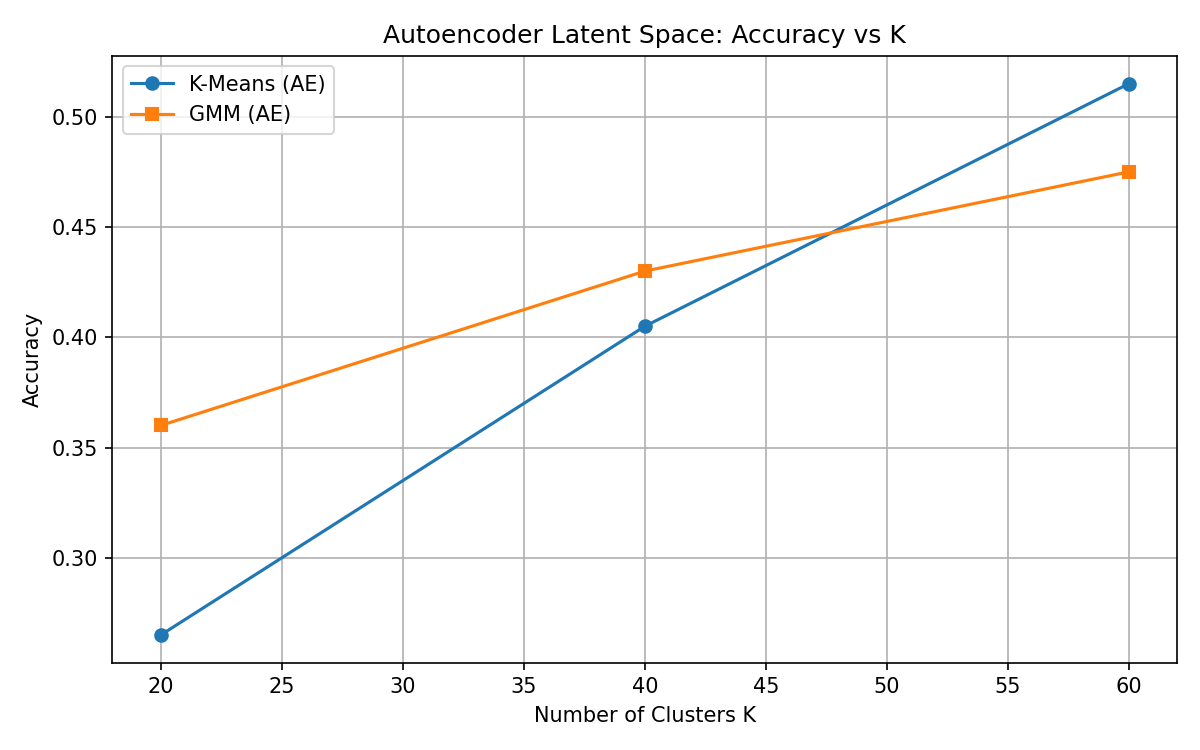
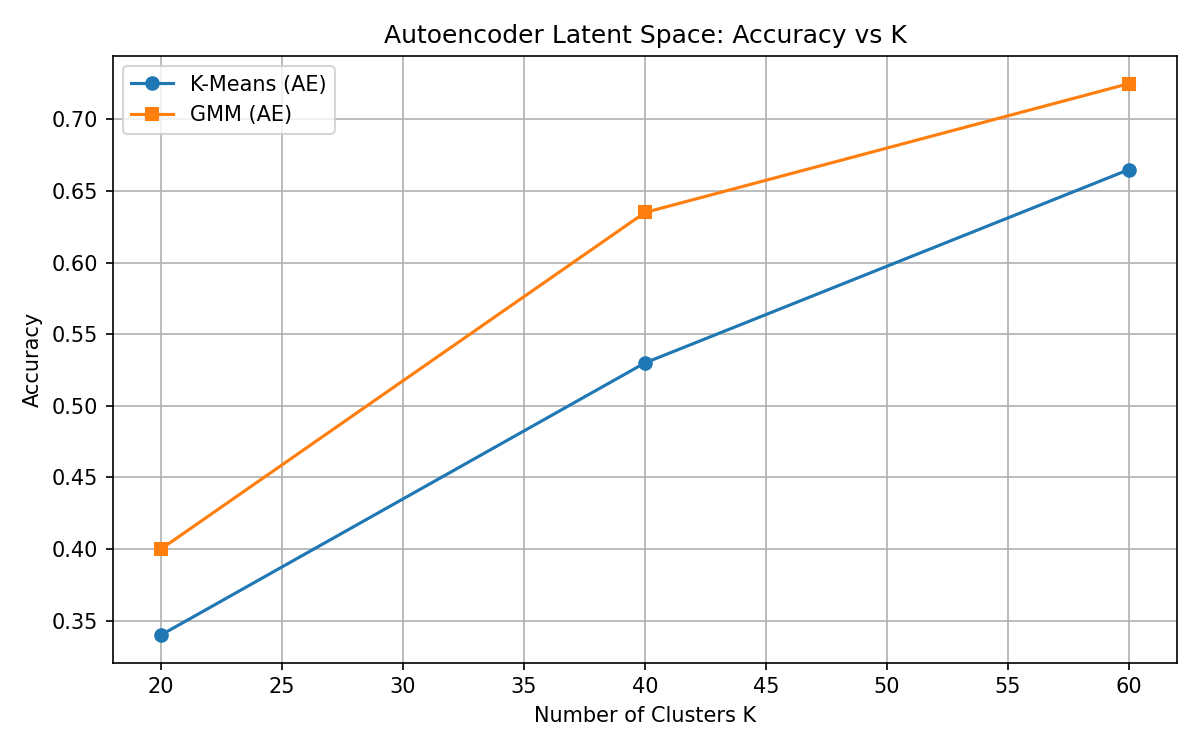
Better performance

diff --git a/Face_Recognition/Autoencoder/tester.py b/Face_Recognition/Autoencoder/tester.py
@@ -1,8 +1,9 @@
 import os
 import numpy as np
 import matplotlib
+import torch
 
-from Autoencoder.model.autoencoder import SimpleAutoencoder
+from Autoencoder.model.autoencoder import DeepAutoencoder
 from GMM.model.gmm import GMM
 from Kmeans.model.kmeans import KMeans
 
@@ -35,96 +36,100 @@ def run_experiment():
     )
     os.makedirs(OUT_DIR, exist_ok=True)
 
+    # Load data
     X_train_raw = np.load(os.path.join(DATA_DIR, "X_train.npy")).astype(np.float32)
     X_test_raw  = np.load(os.path.join(DATA_DIR, "X_test.npy")).astype(np.float32)
     y_train     = np.load(os.path.join(DATA_DIR, "y_train.npy"))
     y_test      = np.load(os.path.join(DATA_DIR, "y_test.npy"))
 
-    input_dim   = X_train_raw.shape[1]   # D = 10304
-    reduced_dim = 64                      # bottleneck size
+    input_dim   = X_train_raw.shape[1]
+
+    # Convert to torch tensors normalized to [0,1]
+    X_train_tensor = torch.tensor(X_train_raw / 255.0)
+    X_test_tensor  = torch.tensor(X_test_raw / 255.0)
 
     # ── 1. Train Autoencoder ──────────────────────────────────────────────
     print("\n==================== AUTOENCODER TRAINING ====================\n")
-    print(f"Architecture: {input_dim} → {reduced_dim} → {input_dim}")
+    print(f"Architecture: {input_dim} → 1024 → 256 → 1024 → {input_dim}")
     print(f"Loss: MSE  ||x - x̃||²")
 
-    ae = SimpleAutoencoder(input_dim=input_dim, reduced_dim=reduced_dim,
-                           lr=1e-4, random_state=42)
-    ae.fit(X_train_raw, epochs=100, batch_size=32, verbose=True)
+    ae = DeepAutoencoder(input_dim=input_dim, hidden1=1024, bottleneck=256)
+    ae, losses = DeepAutoencoder.train_autoencoder(ae, X_train_tensor, epochs=100, lr=1e-3, batch_size=32)
 
     # Training loss curve
     plt.figure(figsize=(7, 4))
-    plt.plot(ae.train_losses, color="steelblue")
+    plt.plot(losses, color="steelblue")
     plt.xlabel("Epoch"); plt.ylabel("MSE Loss")
     plt.title("Autoencoder Training Loss")
     plt.grid(True); plt.tight_layout()
     plt.savefig(os.path.join(OUT_DIR, "ae_training_loss.png"), dpi=150)
     plt.close()
 
-    # ── 2. Get latent code vectors ────────────────────────────────────────
-    Z_train = ae.transform(X_train_raw)
-    Z_test  = ae.transform(X_test_raw)
+    # ── 2. Latent codes ───────────────────────────────────────────────────
+    Z_train = ae.transform(X_train_tensor).detach().numpy()
+    Z_test  = ae.transform(X_test_tensor).detach().numpy()
     print(f"\n  Latent code: train={Z_train.shape}, test={Z_test.shape}")
 
-    # ── 3. Reconstructed faces ────────────────────────────────────────────
-    n_show    = 8
-    X_hat_norm = ae.reconstruct(X_test_raw[:n_show])          # [0, 1]
-    X_hat_disp = (X_hat_norm * 255).clip(0, 255)              # [0, 255]
+    # ── 3. Reconstructed faces (specific indices) ─────────────────────────
+    indices = [0, 5, 12, 20, 33, 47, 50, 75]  # choose specific test samples
+    X_selected = X_test_tensor[indices]
 
-    fig, axes = plt.subplots(2, n_show, figsize=(2 * n_show, 5))
-    for i in range(n_show):
-        axes[0, i].imshow(X_test_raw[i].reshape(112, 92), cmap="gray")
-        axes[0, i].set_title("Original",      fontsize=7)
+    X_hat_norm = ae.reconstruct(X_selected).detach().numpy()
+    X_hat_disp = (X_hat_norm * 255).clip(0, 255)
+
+    fig, axes = plt.subplots(2, len(indices), figsize=(2 * len(indices), 5))
+    for i, idx in enumerate(indices):
+        axes[0, i].imshow(X_test_raw[idx].reshape(112, 92), cmap="gray")
+        axes[0, i].set_title(f"Original #{idx}", fontsize=7)
         axes[0, i].axis("off")
 
         axes[1, i].imshow(X_hat_disp[i].reshape(112, 92), cmap="gray")
         axes[1, i].set_title("Reconstructed", fontsize=7)
         axes[1, i].axis("off")
 
-    plt.suptitle("Autoencoder — Original vs Reconstructed Faces", fontsize=11)
+    plt.suptitle("Autoencoder — Selected Original vs Reconstructed Faces", fontsize=11)
     plt.tight_layout()
-    plt.savefig(os.path.join(OUT_DIR, "ae_reconstructed_faces.png"), dpi=150)
+    plt.savefig(os.path.join(OUT_DIR, "ae_selected_reconstructed_faces.png"), dpi=150)
     plt.close()
 
     # ── 4. Clustering on latent space ─────────────────────────────────────
     results = []
-
     print("\n==================== EXPERIMENT START ====================\n")
 
     for K in KS:
-        # ── K-Means ───────────────────────────────────────────────────────
+        # K-Means
         print(f"\n---- K-Means | K={K} ----")
-        km     = KMeans(n_clusters=K, random_state=42)
+        km = KMeans(n_clusters=K, random_state=42)
         km.fit(Z_train)
-        cmap   = build_cluster_map(km, Z_train, y_train)
+        cmap = build_cluster_map(km, Z_train, y_train)
         y_pred = np.array([cmap[c] for c in km.predict(Z_test)])
         acc_km = accuracy_score(y_test, y_pred)
         f1_km  = f1_score(y_test, y_pred, average="macro", zero_division=0)
         print(f"  Accuracy : {acc_km:.4f}")
         print(f"  Macro F1 : {f1_km:.4f}")
 
-        # ── GMM ───────────────────────────────────────────────────────────
+        # GMM
         print(f"\n---- GMM | K={K} ----")
-        gmm      = GMM(n_components=K, random_state=42)
+        gmm = GMM(n_components=K, random_state=42)
         gmm.fit(Z_train)
-        cmap_g   = build_cluster_map(gmm, Z_train, y_train)
+        cmap_g = build_cluster_map(gmm, Z_train, y_train)
         y_pred_g = np.array([cmap_g[c] for c in gmm.predict(Z_test)])
-        acc_gmm  = accuracy_score(y_test, y_pred_g)
-        f1_gmm   = f1_score(y_test, y_pred_g, average="macro", zero_division=0)
+        acc_gmm = accuracy_score(y_test, y_pred_g)
+        f1_gmm  = f1_score(y_test, y_pred_g, average="macro", zero_division=0)
         print(f"  Accuracy : {acc_gmm:.4f}")
         print(f"  Macro F1 : {f1_gmm:.4f}")
 
         results.append({
-            "K"       : K,
-            "km_acc"  : acc_km,  "km_f1"  : f1_km,
-            "gmm_acc" : acc_gmm, "gmm_f1" : f1_gmm,
-            "km_model": km,      "km_cmap": cmap,
-            "gmm_model": gmm,    "gmm_cmap": cmap_g,
+            "K": K,
+            "km_acc": acc_km, "km_f1": f1_km,
+            "gmm_acc": acc_gmm, "gmm_f1": f1_gmm,
+            "km_model": km, "km_cmap": cmap,
+            "gmm_model": gmm, "gmm_cmap": cmap_g,
         })
 
     print("\n==================== EXPERIMENT DONE ====================\n")
 
-    # ── 5. Full results table ─────────────────────────────────────────────
+    # ── 5. Results table ──────────────────────────────────────────────────
     print("\n==================== FULL RESULTS TABLE ====================\n")
     print(f"  {'K':>4} | {'KMeans Acc':>12} | {'KMeans Macro F1':>16} | "
           f"{'GMM Acc':>10} | {'GMM Macro F1':>14}")
@@ -153,43 +158,30 @@ def run_experiment():
     plt.savefig(os.path.join(OUT_DIR, "ae_clustering_f1_vs_K.png"), dpi=150)
     plt.close()
 
-    # ── 8. Best K-Means model by macro F1 ────────────────────────────────
-    best_r   = max(results, key=lambda r: r["km_f1"])
-    y_pred_b = np.array([best_r["km_cmap"][c]
-                         for c in best_r["km_model"].predict(Z_test)])
-
-    print(f"\n==================== BEST K-MEANS (by Macro F1, K={best_r['K']}) ====================")
-    print(f"  Accuracy : {best_r['km_acc']:.4f}")
-    print(f"  Macro F1 : {best_r['km_f1']:.4f}")
-
-    cm = confusion_matrix(y_test, y_pred_b)
+    # ── 8. Best models confusion matrices ─────────────────────────────────
+    best_km = max(results, key=lambda r: r["km_f1"])
+    y_pred_best_km = np.array([best_km["km_cmap"][c] for c in best_km["km_model"].predict(Z_test)])
+    cm_km = confusion_matrix(y_test, y_pred_best_km)
     fig, ax = plt.subplots(figsize=(14, 12))
-    ConfusionMatrixDisplay(cm).plot(ax=ax, colorbar=True, xticks_rotation=90)
-    ax.set_title(f"K-Means (AE) Confusion Matrix  K={best_r['K']}  "
-                 f"[Best by Macro F1={best_r['km_f1']:.4f}]")
+    ConfusionMatrixDisplay(cm_km).plot(ax=ax, colorbar=True, xticks_rotation=90)
+    ax.set_title(f"K-Means (AE) Confusion Matrix  K={best_km['K']}  "
+                 f"[Best by Macro F1={best_km['km_f1']:.4f}]")
     plt.tight_layout()
     plt.savefig(os.path.join(OUT_DIR, "ae_kmeans_confusion_matrix.png"), dpi=150)
     plt.close()
 
-    # ── 9. Best GMM model by macro F1 ────────────────────────────────────
     best_gmm = max(results, key=lambda r: r["gmm_f1"])
-    y_pred_g = np.array([best_gmm["gmm_cmap"][c]
-                         for c in best_gmm["gmm_model"].predict(Z_test)])
-
-    print(f"\n==================== BEST GMM (by Macro F1, K={best_gmm['K']}) ====================")
-    print(f"  Accuracy : {best_gmm['gmm_acc']:.4f}")
-    print(f"  Macro F1 : {best_gmm['gmm_f1']:.4f}")
-
-    cm_g = confusion_matrix(y_test, y_pred_g)
+    y_pred_best_gmm = np.array([best_gmm["gmm_cmap"][c] for c in best_gmm["gmm_model"].predict(Z_test)])
+    cm_gmm = confusion_matrix(y_test, y_pred_best_gmm)
     fig, ax = plt.subplots(figsize=(14, 12))
-    ConfusionMatrixDisplay(cm_g).plot(ax=ax, colorbar=True, xticks_rotation=90)
+    ConfusionMatrixDisplay(cm_gmm).plot(ax=ax, colorbar=True, xticks_rotation=90)
     ax.set_title(f"GMM (AE) Confusion Matrix  K={best_gmm['K']}  "
                  f"[Best by Macro F1={best_gmm['gmm_f1']:.4f}]")
     plt.tight_layout()
     plt.savefig(os.path.join(OUT_DIR, "ae_gmm_confusion_matrix.png"), dpi=150)
     plt.close()
 
-    print(f"\n  Plots saved to: {OUT_DIR}")
+    print(f"\nAll plots saved to: {OUT_DIR}")
 
 
 if __name__ == "__main__":

diff --git a/Face_Recognition/Autoencoder/model/autoencoder.py b/Face_Recognition/Autoencoder/model/autoencoder.py
@@ -1,111 +1,48 @@
-import numpy as np
+import torch.nn as nn
+import torch.optim as optim
 
+class DeepAutoencoder(nn.Module):
+    def __init__(self, input_dim, hidden1=1024, bottleneck=128):
+        super(DeepAutoencoder, self).__init__()
+        self.network = nn.Sequential(
+            nn.Linear(input_dim, hidden1),
+            nn.ReLU(),
+            nn.Linear(hidden1, bottleneck),
+            nn.ReLU(),
+            nn.Linear(bottleneck, hidden1),
+            nn.ReLU(),
+            nn.Linear(hidden1, input_dim),
+            nn.Sigmoid()
+        )
 
-class SimpleAutoencoder:
-    def __init__(self, input_dim, reduced_dim, lr=1e-3, random_state=42):
-        """
-        Parameters
-        ----------
-        input_dim   : dimensionality of each input vector (D)
-        reduced_dim : bottleneck / code dimensionality (K < D)
-        lr          : learning rate for gradient descent
-        """
-        rng = np.random.default_rng(random_state)
-        scale = np.sqrt(1.0 / input_dim)
+    def forward(self, x):
+        return self.network(x)
 
-        # Encoder  W1: (K x D),  b1: (K,)
-        self.W1 = (rng.standard_normal((reduced_dim, input_dim)) * scale).astype(np.float32)
-        self.b1 = np.zeros(reduced_dim, dtype=np.float32)
+    def transform(self, x):
+        # encoder part only: first 4 layers
+        return self.network[:4](x)
 
-        # Decoder  W2: (D x K),  b2: (D,)
-        self.W2 = (rng.standard_normal((input_dim, reduced_dim)) * scale).astype(np.float32)
-        self.b2 = np.zeros(input_dim, dtype=np.float32)
+    def reconstruct(self, x):
+        return self.forward(x)
 
-        self.lr = lr
-        self.train_losses = []
+    def train_autoencoder(model, X_train, epochs=100, lr=1e-3, batch_size=32, verbose=True):
+        optimizer = optim.Adam(model.parameters(), lr=lr)
+        criterion = nn.MSELoss()
 
-    @staticmethod
-    def _normalise(X):
-        X = X.astype(np.float32)
-        mx = X.max()
-        return X / mx if mx > 1.0 else X
-
-    # Forward
-    def encode(self, X):
-        return X @ self.W1.T + self.b1
-
-    def decode(self, Z):
-        return Z @ self.W2.T + self.b2
-
-    def forward(self, X):
-        return self.decode(self.encode(X))
-
-    @staticmethod
-    def mse_loss(X, X_hat):
-        return np.mean((X - X_hat) ** 2)
-
-    # Backward
-    def _backward_and_update(self, X, X_hat, Z, clip=5.0):
-        n = X.shape[0]
-
-        dL = 2.0 * (X_hat - X) / n
-
-        # Decoder gradients
-        dW2 = dL.T @ Z
-        db2 = dL.sum(axis=0)
-        dZ  = dL @ self.W2
-
-        # Encoder gradients
-        dW1 = dZ.T @ X
-        db1 = dZ.sum(axis=0)
-
-        # Gradient clipping — prevents exploding gradients
-        for g in (dW2, db2, dZ, dW1, db1):
-            np.clip(g, -clip, clip, out=g)
-
-        # Gradient descent update
-        self.W2 -= self.lr * dW2
-        self.b2 -= self.lr * db2
-        self.W1 -= self.lr * dW1
-        self.b1 -= self.lr * db1
-
-    # ── fit ───────────────────────────────────────────────────────────────
-    def fit(self, X, epochs=100, batch_size=32, verbose=True):
-        # Normalise once before training
-        X = self._normalise(X)
-
-        n   = X.shape[0]
-        rng = np.random.default_rng(0)
-
+        losses = []
         for epoch in range(1, epochs + 1):
-            idx          = rng.permutation(n)
-            epoch_loss   = 0.0
-            nb           = 0
+            epoch_loss = 0.0
+            for i in range(0, X_train.size(0), batch_size):
+                xb = X_train[i:i+batch_size]
+                optimizer.zero_grad()
+                x_hat = model(xb)
+                loss = criterion(x_hat, xb)
+                loss.backward()
+                optimizer.step()
+                epoch_loss += loss.item()
 
-            for s in range(0, n, batch_size):
-                batch = X[idx[s:s + batch_size]]
+            losses.append(epoch_loss / (X_train.size(0) // batch_size))
+            if verbose and (epoch == 1 or epoch % 10 == 0):
+                print(f"Epoch {epoch}/{epochs}, Loss={losses[-1]:.6f}")
 
-                # Forward
-                Z     = self.encode(batch)
-                X_hat = self.decode(Z)
-
-                # Loss
-                epoch_loss += self.mse_loss(batch, X_hat)
-                nb         += 1
-
-                # Backward + update
-                self._backward_and_update(batch, X_hat, Z)
-
-            avg = epoch_loss / nb
-            self.train_losses.append(avg)
-
-            if verbose and (epoch == 1 or epoch % 20 == 0):
-                print(f"  Epoch {epoch:>4}/{epochs}  MSE Loss: {avg:.6f}")
-
-        return self
-
-    def transform(self, X):
-        return self.encode(self._normalise(X))
-
-    def reconstruct(self, X):
-        return self.forward(self._normalise(X))
+        return model, losses
